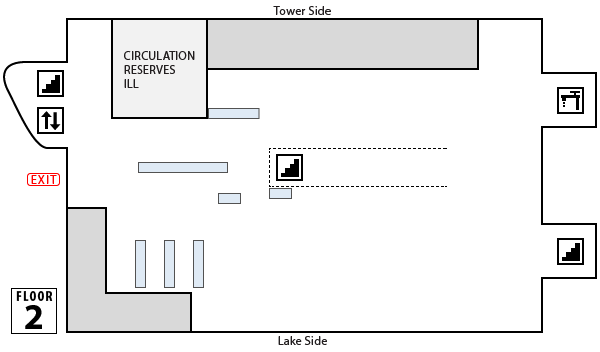
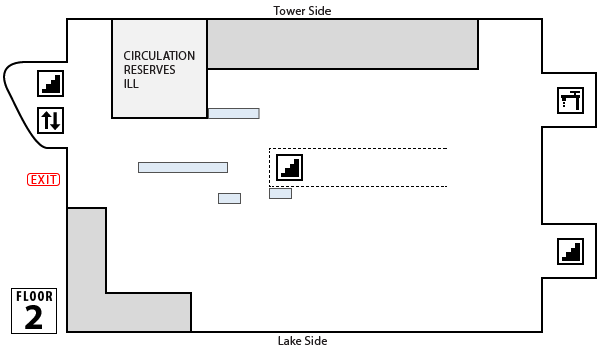
changes to account for moving reference to the fourth floor

Changed region(s): [[0.21, 0.6562, 0.36, 0.8438]]

diff --git a/js/custom.js b/js/custom.js
@@ -12,7 +12,7 @@ var staticLocations = {
   'mm_noILL': { 'floor': '2', 'x': 100, 'y': 91, 'width': 123, 'height': 38, 'message': 'Request this item in the catalog, then pick up at the circulation/reserves desk on the second floor.', 'english': 'Circulation Desk' },
   'archives': { 'floor': '5', 'x': 338, 'y': 139, 'width': 188, 'height': 83, 'message': 'This item is located in the archives on the fifth floor.', 'english': 'Archives' },
   'serling': { 'floor': '5', 'x': 338, 'y': 139, 'width': 188, 'height': 83, 'message': 'This item is located in the archives on the fifth floor.', 'english': 'Archives' },
-  'reference': { 'floor': '2', 'x': 128, 'y': 236, 'width': 110, 'height': 57, 'message': 'This item is located in the stacks on the right as you come in the main entrance.', 'english': 'Reference' },
+  'reference': { 'floor': '4', 'x': 266, 'y': 50, 'height': 80, 'width': 18, 'message': 'This item is located on the towers side of the fourth floor', 'english': 'Reference' },
   'microfilm': { 'floor': '4', 'x': 483, 'y': 59, 'width': 39, 'height': 64, 'message': 'This item is located in the metal cases in the southwest corner of the fourth floor, near the restrooms.', 'english': 'Microfilm' },
   'musper': { 'floor': '3', 'x': 170, 'y': 232, 'width': 20, 'height': 81, 'message': 'This item is located in the northeast corner of the third floor, near the administrative offices.', 'english': 'Music Periodicals' },
   'musicref': { 'floor': '3', 'x': 442, 'y': 233, 'width': 10, 'height': 78, 'message': 'This item is located near the music desk in the NW corner of the third floor.', 'english': 'Music Reference' },
@@ -36,7 +36,7 @@ var staticLocations = {
 
 var stacks = [{ "id": "4.G1.e", "start": "AC1 .E8", "end": "B799 .S37 1998", "x": "85", "y": "222", "height": "80", "width": "9" }, { "id": "4.G1.w", "start": "B801 .C35 1998", "end": "B1647.M74 S35 1968", "x": "95", "y": "222", "height": "80", "width": "9" }, { "id": "4.G2.e", "start": "B1649.O344 B68 2011", "end": "B4351.A34 K5", "x": "103", "y": "222", "height": "80", "width": "9" }, { "id": "4.G2.w", "start": "B4372 .E5 1978", "end": "BF38.5 .S52", "x": "113", "y": "222", "height": "80", "width": "9" }, { "id": "4.G3.e", "start": "BF39 .B73 2016", "end": "BF410.C36 F5 2006", "x": "121", "y": "222", "height": "80", "width": "9" }, { "id": "4.G3.w", "start": "BF411 .B2613 1983", "end": "BF722.3 .R36 2002", "x": "131", "y": "222", "height": "80", "width": "9" }, { "id": "4.G4.e", "start": "BF723.A25 F68 1983", "end": "BJ1279 .S55", "x": "139", "y": "222", "height": "80", "width": "9" }, { "id": "4.G4.w", "start": "BJ1280 .M58 2012", "end": "BL470 .G3", "x": "149", "y": "222", "height": "80", "width": "9" }, { "id": "4.G5.e", "start": "BL473 .A76 2009", "end": "BL2525 .W885 1994", "x": "157", "y": "222", "height": "80", "width": "9" }, { "id": "4.G5.w", "start": "BL2527.M7 G63 2013", "end": "BP75.3 .C36 2010", "x": "167", "y": "222", "height": "80", "width": "9" }, { "id": "4.G6.e", "start": "BP80.A45 K4", "end": "BR148 .M4", "x": "175", "y": "222", "height": "80", "width": "9" }, { "id": "4.G6.w", "start": "BR150 .C59 1962", "end": "BR1233 .A785 2009", "x": "184", "y": "222", "height": "80", "width": "9" }, { "id": "4.G7.e", "start": "BR1235 .G8 1964", "end": "BV2853.E2 G64 1994", "x": "193", "y": "222", "height": "80", "width": "9" }, { "id": "4.G7.w", "start": "BV3200 .T5", "end": "BX4838 .G74 2000", "x": "204", "y": "222", "height": "80", "width": "9" }, { "id": "4.G8.e", "start": "BX4844 .P743 2012", "end": "CB411 .W3", "x": "211", "y": "222", "height": "80", "width": "9" }, { "id": "4.G8.w", "start": "CB415 .F563 2015", "end": "D7 .N4", "x": "220", "y": "222", "height": "80", "width": "9" }, { "id": "4.G9.e", "start": "D9 .D5 1967", "end": "D355 .W6", "x": "229", "y": "222", "height": "80", "width": "9" }, { "id": "4.G9.w", "start": "D358 .H56 1975b", "end": "D753.8 .T45", "x": "239", "y": "222", "height": "80", "width": "9" }, { "id": "4.G10.e", "start": "D754.A34 C6 1942", "end": "D810.Y74 K83 2011", "x": "247", "y": "222", "height": "80", "width": "9" }, { "id": "4.G10.w", "start": "D811.A2 B7458 2001", "end": "DA140 .T48 1986", "x": "257", "y": "222", "height": "80", "width": "9" }, { "id": "4.G11.e", "start": "DA142 .C48 2004", "end": "DA508.A5 M3 1979", "x": "265", "y": "222", "height": "80", "width": "9" }, { "id": "4.G11.w", "start": "DA510 .C43 1965", "end": "DA915 .L41", "x": "276", "y": "222", "height": "80", "width": "9" }, { "id": "4.G12.e", "start": "DA920 .E9 1966A", "end": "DC145 .W53 1968", "x": "320", "y": "222", "height": "80", "width": "9" }, { "id": "4.G12.w", "start": "DC146 .A52 F78", "end": "DD219 .T7 D6", "x": "330", "y": "222", "height": "80", "width": "9" }, { "id": "4.G13.e", "start": "DD220 .C36", "end": "DF287.P3 P37 2005", "x": "338", "y": "222", "height": "80", "width": "9" }, { "id": "4.G13.w", "start": "DF503 .B7", "end": "DJ411.A62 K4", "x": "348", "y": "222", "height": "80", "width": "9" }, { "id": "4.G14.e", "start": "DJK9 .E2 1976", "end": "DK273 .S784", "x": "356", "y": "222", "height": "80", "width": "9" }, { "id": "4.G14.w", "start": "DK274.A2 K4834 1983", "end": "DR381.M38 P3", "x": "366", "y": "222", "height": "80", "width": "9" }, { "id": "4.G15.e", "start": "DR417 .D48", "end": "DS118 .R6 1970", "x": "374", "y": "222", "height": "80", "width": "9" }, { "id": "4.G15.w", "start": "DS119 .G58", "end": "DS369.4 .N44", "x": "384", "y": "222", "height": "80", "width": "9" }, { "id": "4.G16.e", "start": "DS371.2 .A45513 1992", "end": "DS707 .C513 1965", "x": "392", "y": "222", "height": "80", "width": "9" }, { "id": "4.G16.w", "start": "DS708 .M14", "end": "DS935.774 .L36 2013", "x": "402", "y": "222", "height": "80", "width": "9" }, { "id": "4.G17.e", "start": "DT1 .A14 1974", "end": "DT797 .Y44", "x": "411", "y": "222", "height": "80", "width": "9" }, { "id": "4.G17.w", "start": "DT823 .T75", "end": "E98.R53 O9813 1999", "x": "420", "y": "222", "height": "80", "width": "9" }, { "id": "4.G18.e", "start": "E98.S3 V5 1966", "end": "E168 .W69", "x": "430", "y": "222", "height": "80", "width": "9" }, { "id": "4.G18.w", "start": "E169 .A36", "end": "E179.5 .M32 1997", "x": "438", "y": "222", "height": "80", "width": "9" }, { "id": "4.G19.e", "start": "E180 .K28 1995", "end": "E184 .J5 Z826 1982", "x": "482", "y": "222", "height": "80", "width": "9" }, { "id": "4.G19.w", "start": "E184 .K6 E27 1997", "end": "E185.86 .S6974 1996", "x": "492", "y": "222", "height": "80", "width": "9" }, { "id": "4.G20.e", "start": "E185.86 .S698 2005", "end": "E302.5 .W74", "x": "500", "y": "222", "height": "80", "width": "9" }, { "id": "4.G20.w", "start": "E302.6 .A2 B4", "end": "E448 .R3", "x": "511", "y": "222", "height": "80", "width": "9" }, { "id": "4.G21.w", "start": "E449 .A1555 1994", "end": "E660 .R88", "x": "473", "y": "50", "height": "80", "width": "9" }, { "id": "4.G21.e", "start": "E660 .W715", "end": "E746 .W5", "x": "464", "y": "50", "height": "80", "width": "9" }, { "id": "4.G22.w", "start": "E747 .A75", "end": "E842.9 .Z45 1992", "x": "456", "y": "50", "height": "80", "width": "9" }, { "id": "4.G22.e", "start": "E843 .C6", "end": "F127.T7 S4", "x": "446", "y": "50", "height": "80", "width": "9" }, { "id": "4.G23.w", "start": "F128.C3 D47 2010", "end": "F231.2 .G6 1969", "x": "438", "y": "50", "height": "80", "width": "9" }, { "id": "4.G23.e", "start": "F232.C43 M67 1998", "end": "F659.D2 B4 1982", "x": "428", "y": "50", "height": "80", "width": "9" }, { "id": "4.G24.w", "start": "F666.S21 S22 1935", "end": "F1234.237 .H37 2018", "x": "420", "y": "50", "height": "80", "width": "9" }, { "id": "4.G24.e", "start": "F1235 A84 2014", "end": "F2271 .S56 2004", "x": "411", "y": "50", "height": "80", "width": "9" }, { "id": "4.G25.w", "start": "F2272 .I58 2007", "end": "G890.H4 S3", "x": "402", "y": "50", "height": "80", "width": "9" }, { "id": "4.G25.e", "start": "G1021 .S56 2003", "end": "GN23 .P9 1973", "x": "392", "y": "50", "height": "80", "width": "9" }, { "id": "4.G26.w", "start": "GN24 .B43", "end": "GN656 .K86 1982", "x": "383", "y": "50", "height": "80", "width": "9" }, { "id": "4.G26.e", "start": "GN657.B64 M75 1982", "end": "GV182.3 .U55 1993", "x": "374", "y": "50", "height": "80", "width": "9" }, { "id": "4.G27.w", "start": "GV183 .B57 1996", "end": "GV883 .C86 2009", "x": "366", "y": "50", "height": "80", "width": "9" }, { "id": "4.G27.e", "start": "GV884 .A1 A33 2017", "end": "H59 .W6 W63", "x": "356", "y": "50", "height": "80", "width": "9" }, { "id": "4.G28.w", "start": "H61 .A37", "end": "HB501.5 .C37 1983", "x": "348", "y": "50", "height": "80", "width": "9" }, { "id": "4.G28.e", "start": "HB5523 .A27 1999", "end": "HC79.Z6 B38", "x": "338", "y": "50", "height": "80", "width": "9" }, { "id": "4.G29.w", "start": "HC85 .F44 2001", "end": "HC125 .W34", "x": "330", "y": "50", "height": "80", "width": "9" }, { "id": "4.G29.e", "start": "HC130.E5 E58 1991", "end": "HC1060 .H47 1993", "x": "320", "y": "50", "height": "80", "width": "9" }, { "id": "5.G30.w", "start": "HD19 .F46 1976", "end": "HD57.7 .Y85 1989", "x": "69", "y": "21", "height": "49", "width": "15" }, { "id": "5.G31.e", "start": "HD58 .B32", "end": "HD191 .S8 1967", "x": "86", "y": "29", "height": "80", "width": "9" }, { "id": "5.G31.w", "start": "HD194 .A6", "end": "HD4606.N5 B58", "x": "95", "y": "29", "height": "80", "width": "9" }, { "id": "5.G32.e", "start": "HD4802 .R42", "end": "HD6960.5 .U5 D45 1981", "x": "104", "y": "29", "height": "80", "width": "9" }, { "id": "5.G32.w", "start": "HD6961 .B57", "end": "HD9397.U6 B87 2011", "x": "113", "y": "29", "height": "80", "width": "9" }, { "id": "5.G33.e", "start": "HD9415 .C6 1966", "end": "HE2583 .S67", "x": "121", "y": "29", "height": "80", "width": "9" }, { "id": "5.G33.w", "start": "HE2751 .A77", "end": "HF5011 .W26", "x": "130", "y": "29", "height": "80", "width": "9" }, { "id": "5.G34.e", "start": "HF5341 .B4", "end": "HF5679 .M374 2003", "x": "140", "y": "29", "height": "80", "width": "9" }, { "id": "5.G34.w", "start": "HF5681.A8 P385 1997", "end": "HG2229 .H3", "x": "149", "y": "29", "height": "80", "width": "9" }, { "id": "5.G35.e", "start": "HG2406 .A536", "end": "HJ263 .P6", "x": "156", "y": "29", "height": "80", "width": "9" }, { "id": "5.G35.w", "start": "HJ268 .R78 2003", "end": "HM217 .A47 1994", "x": "166", "y": "29", "height": "80", "width": "9" }, { "id": "5.G36.e", "start": "HM221 .C35", "end": "HM1116 .W46 2000", "x": "174", "y": "29", "height": "80", "width": "9" }, { "id": "5.G36.w", "start": "HM1121 .B37 2002", "end": "HN90.P8 Z64 2008", "x": "183", "y": "29", "height": "80", "width": "9" }, { "id": "5.G37.e", "start": "HN90.R3 A3 1984", "end": "HQ56 .W648 1991", "x": "191", "y": "29", "height": "80", "width": "9" }, { "id": "5.G37.w", "start": "HQ57.2 .B87 2011", "end": "HQ755.86 .T366 2006", "x": "201", "y": "29", "height": "80", "width": "9" }, { "id": "5.G38.e", "start": "HQ756 .A23 2018", "end": "HQ1059.5 .U5 W65 1984", "x": "209", "y": "29", "height": "80", "width": "9" }, { "id": "5.G38.w", "start": "HQ1060 .G4", "end": "HQ1240.5 .U6 N36 1998", "x": "218", "y": "29", "height": "80", "width": "9" }, { "id": "5.G39.e", "start": "HQ1381 .A44 2002", "end": "HT166 .W484 2013", "x": "226", "y": "29", "height": "80", "width": "9" }, { "id": "5.G39.w", "start": "HT167 .A834 1994", "end": "HV639 .M47 2000", "x": "235", "y": "29", "height": "80", "width": "9" }, { "id": "5.G40.e", "start": "HV640 .A6", "end": "HV4506.W2 L54 1993", "x": "244", "y": "29", "height": "80", "width": "9" }, { "id": "5.G40.w", "start": "HV4547.A4 F57 2000", "end": "HV6431 .W5655 2013", "x": "253", "y": "29", "height": "80", "width": "9" }, { "id": "5.G41.e", "start": "HV6432 .A45 2004", "end": "HV6795.S5 C45 1978", "x": "261", "y": "29", "height": "80", "width": "9" }, { "id": "5.G41.w", "start": "HV6810.5 .C745 2001", "end": "HV9471 .Z55 1995", "x": "270", "y": "29", "height": "80", "width": "9" }, { "id": "5.G42.e", "start": "HV9474.F66 K47 2013", "end": "J81.4 .M93 2003", "x": "279", "y": "29", "height": "80", "width": "9" }, { "id": "5.G42.w", "start": "J82 .D2", "end": "JC186 .P83 S55", "x": "287", "y": "29", "height": "80", "width": "9" }, { "id": "5.G43.e", "start": "JC211 .B265", "end": "JC628 .G3", "x": "296", "y": "29", "height": "80", "width": "9" }, { "id": "5.G43.w", "start": "JF11 .E47", "end": "JK686 .H7", "x": "305", "y": "29", "height": "80", "width": "9" }, { "id": "5.G44.e", "start": "JK691 .A52 1965", "end": "JL2269 .P7 B84", "x": "313", "y": "29", "height": "80", "width": "9" }, { "id": "5.G44.w", "start": "JL2420 .C58 H86 1997", "end": "JS1230 1981 N48", "x": "321", "y": "29", "height": "80", "width": "9" }, { "id": "5.G45.e", "start": "JS1234 .A1 L6", "end": "JX1977.8 .P85 T6", "x": "330", "y": "29", "height": "80", "width": "9" }, { "id": "5.G45.w", "start": "JX1979 .A36", "end": "KF224 .W33 S57", "x": "339", "y": "29", "height": "80", "width": "9" }, { "id": "5.G46.e", "start": "KF225 .A84 B88 2017", "end": "KF3989 .Z9 F67 1989", "x": "348", "y": "29", "height": "80", "width": "9" }, { "id": "5.G46.w", "start": "KF4118 .K5", "end": "KF8745 .W3 P64", "x": "357", "y": "29", "height": "80", "width": "9" }, { "id": "5.G47.e", "start": "KF8748 .B24", "end": "LA627 .R82 1984", "x": "366", "y": "29", "height": "80", "width": "9" }, { "id": "5.G47.w", "start": "LA631 .A47 1990", "end": "LB1062.6 .W55 1998", "x": "374", "y": "29", "height": "80", "width": "9" }, { "id": "5.G48.e", "start": "LB1063 .E213 1964", "end": "LB2346 .M3", "x": "383", "y": "29", "height": "80", "width": "9" }, { "id": "5.G48.w", "start": "LB2350 .C29 1973", "end": "LC368 .B47 1967", "x": "391", "y": "29", "height": "80", "width": "9" }, { "id": "5.G49.e", "start": "LC383 .G4", "end": "N72.R4 W32", "x": "400", "y": "29", "height": "80", "width": "9" }, { "id": "5.G49.w", "start": "N72.S3 B64 1999", "end": "N6494.V53 S6513 2008", "x": "409", "y": "29", "height": "80", "width": "9" }, { "id": "5.G50.e", "start": "N6496.C52 D383 2005", "end": "N6922 .V35", "x": "417", "y": "29", "height": "80", "width": "9" }, { "id": "5.G50.w", "start": "N6923 .B5 B33", "end": "N9165.F8 S5 1971", "x": "426", "y": "29", "height": "80", "width": "9" }, { "id": "5.G51.e", "start": "NA1 .A536", "end": "NA2530 .O36 1998", "x": "435", "y": "29", "height": "80", "width": "9" }, { "id": "5.G51.w", "start": "NA2540 .A97 2011", "end": "NB619.T9 P4", "x": "443", "y": "29", "height": "80", "width": "9" }, { "id": "5.G52.e", "start": "NB620 .A44 1975", "end": "ND497.P3 L56 1985", "x": "452", "y": "29", "height": "80", "width": "9" }, { "id": "5.G52.w", "start": "ND497.R2 A3", "end": "ND1045 .C63 1987", "x": "461", "y": "29", "height": "80", "width": "9" }, { "id": "5.G53.e", "start": "ND1046.M6 I613", "end": "NK3670 .L79", "x": "470", "y": "29", "height": "80", "width": "9" }, { "id": "5.G53.w", "start": "NK3780 .L5", "end": "P40.8 .L369 2002", "x": "479", "y": "29", "height": "80", "width": "9" }, { "id": "5.G54.e", "start": "P41 .F5", "end": "P117.7 .T35 2010", "x": "487", "y": "29", "height": "80", "width": "9" }, { "id": "5.G54.w", "start": "P118 .A5 1984", "end": "PA4410 .S5 1967", "x": "496", "y": "29", "height": "80", "width": "9" }, { "id": "5.G55.e", "start": "PA4413.A7 A67", "end": "PC4625 .B6", "x": "504", "y": "29", "height": "80", "width": "9" }, { "id": "5.G55.w", "start": "PC4640 .L38 1993", "end": "PG3017 .S8 1976", "x": "513", "y": "29", "height": "80", "width": "9" }, { "id": "5.G56.e", "start": "PG3020.5 .M6 R8", "end": "PG9621.K3 U713 1998", "x": "528", "y": "21", "height": "58", "width": "14" }, { "id": "5.G57.e", "start": "PH301 .A35", "end": "PL3748 .Y6", "x": "487", "y": "248", "height": "58", "width": "14" }, { "id": "5.G58.w", "start": "PL4378.65 .E6 S59 2002", "end": "PN511 .W633 1965", "x": "513", "y": "248", "height": "80", "width": "9" }, { "id": "5.G58.e", "start": "PN513 .S22 1971", "end": "PN1962 .G7", "x": "504", "y": "248", "height": "80", "width": "9" }, { "id": "5.G59.w", "start": "PN1967 .A73 1943", "end": "PN1993.45 .A57 1989", "x": "496", "y": "248", "height": "80", "width": "9" }, { "id": "5.G59.e", "start": "PN1993.5 .A1 A35", "end": "PN1995.9 .H6 W46 1996", "x": "487", "y": "248", "height": "80", "width": "9" }, { "id": "5.G60.w", "start": "PN1995.9 .I43 B45 1985", "end": "PN1998 .P24", "x": "478", "y": "248", "height": "80", "width": "9" }, { "id": "5.G60.e", "start": "PN1998.2 .A24 2011", "end": "PN2266.5 W45 1992", "x": "470", "y": "248", "height": "80", "width": "9" }, { "id": "5.G61.w", "start": "PN2267 .C45 2004", "end": "PN3324 .W6", "x": "461", "y": "248", "height": "80", "width": "9" }, { "id": "5.G61.e", "start": "PN3326 .R63", "end": "PN4826 .W58 1991", "x": "452", "y": "248", "height": "80", "width": "9" }, { "id": "5.G62.w", "start": "PN4832 .I57 1991", "end": "PN6072 .M8", "x": "443", "y": "248", "height": "80", "width": "9" }, { "id": "5.G62.e", "start": "PN6081 .A65", "end": "PN6790.S93 T56 2007", "x": "435", "y": "248", "height": "80", "width": "9" }, { "id": "5.G63.w", "start": "PQ11 .G4", "end": "PQ1489.L53 1968", "x": "426", "y": "248", "height": "80", "width": "9" }, { "id": "5.G63.e", "start": "PQ1494.A3 M3", "end": "PQ2157 .E42A", "x": "417", "y": "248", "height": "80", "width": "9" }, { "id": "5.G64.w", "start": "PQ2158 .A45 1976", "end": "PQ2446 .A29 W2", "x": "409", "y": "248", "height": "80", "width": "9" }, { "id": "5.G64.e", "start": "PQ2450.T6 Z98", "end": "PQ2623.O8 Z5536 1978", "x": "400", "y": "248", "height": "80", "width": "9" }, { "id": "5.G65.w", "start": "PQ2625.A16 Q8", "end": "PQ4117 .L66 1996", "x": "391", "y": "248", "height": "80", "width": "9" }, { "id": "5.G65.e", "start": "PQ4134 .K4", "end": "PQ6182 .H5", "x": "383", "y": "248", "height": "80", "width": "9" }, { "id": "5.G66.w", "start": "PQ6183 .B00 1948", "end": "PQ6558 .V5", "x": "374", "y": "248", "height": "80", "width": "9" }, { "id": "5.G66.e", "start": "PQ6560 1957", "end": "PQ7297.F793 Z933 1998", "x": "365", "y": "248", "height": "80", "width": "9" }, { "id": "5.G67.w", "start": "PQ7297.G23 O8 1994", "end": "PQ8517 .T42 1992", "x": "356", "y": "248", "height": "80", "width": "9" }, { "id": "5.G67.e", "start": "PQ8519.A5 A17 1958", "end": "PR457 .W74 1993", "x": "348", "y": "248", "height": "80", "width": "9" }, { "id": "5.G68.w", "start": "PR461 .A33 2009", "end": "PR858.W6 T6", "x": "339", "y": "248", "height": "80", "width": "9" }, { "id": "5.G68.e", "start": "PR861 .B76 1985", "end": "PR1272 .W4", "x": "331", "y": "248", "height": "80", "width": "9" }, { "id": "5.G69.w", "start": "PR1281 .W8", "end": "PR2539.G6 R3 1974", "x": "322", "y": "248", "height": "80", "width": "9" }, { "id": "5.G69.e", "start": "PR2541 .C6", "end": "PR2949 .T33 1966", "x": "312", "y": "248", "height": "80", "width": "9" }, { "id": "5.G70.w", "start": "PR2952 .A45 1972", "end": "PR3452 .W5", "x": "304", "y": "248", "height": "80", "width": "9" }, { "id": "5.G70.e", "start": "PR3454 .A9 1966", "end": "PR3780 .A2 1854", "x": "296", "y": "248", "height": "80", "width": "9" }, { "id": "5.G71.w", "start": "PR3783 .B5", "end": "PR4537 .B74 2004", "x": "287", "y": "248", "height": "80", "width": "9" }, { "id": "5.G71.e", "start": "PR4550 .E50", "end": "PR4969 .R4", "x": "279", "y": "248", "height": "80", "width": "9" }, { "id": "5.G72.w", "start": "PR4971 .P9 1966", "end": "PR5572.Q7 K5", "x": "271", "y": "248", "height": "80", "width": "9" }, { "id": "5.G72.e", "start": "PR5581 .B8", "end": "PR6003.V36 B7 1966", "x": "262", "y": "248", "height": "80", "width": "9" }, { "id": "5.G73.w", "start": "PR6005.A37 Z6", "end": "PR6023.A94 Z8", "x": "252", "y": "248", "height": "80", "width": "9" }, { "id": "5.G73.e", "start": "PR6023.E15 A8 1914", "end": "PR6051.Z96 H53 2001", "x": "244", "y": "248", "height": "80", "width": "9" }, { "id": "5.G74.w", "start": "PR6052.A3184 Z475 1986", "end": "PR9333.9 .K38 L37 2001", "x": "235", "y": "248", "height": "80", "width": "9" }, { "id": "5.G74.e", "start": "PR9340 .C66", "end": "PS310.W64 S5", "x": "225", "y": "248", "height": "80", "width": "9" }, { "id": "5.G75.w", "start": "PS312 .D3", "end": "PS645 .H3", "x": "217", "y": "248", "height": "80", "width": "9" }, { "id": "5.G75.e", "start": "PS647.A35 B57 1990", "end": "PS1850 .F63", "x": "209", "y": "248", "height": "80", "width": "9" }, { "id": "5.G76.w", "start": "PS1851 .H3", "end": "PS3053 .W5", "x": "200", "y": "248", "height": "80", "width": "9" }, { "id": "5.G76.e", "start": "PS3054 .A44 1908a", "end": "PS3509.V23 A6 1970", "x": "191", "y": "248", "height": "80", "width": "9" }, { "id": "5.G77.w", "start": "PS3511.A33 E5", "end": "PS3523.Y85 E56 1994", "x": "182", "y": "248", "height": "80", "width": "9" }, { "id": "5.G77.e", "start": "PS3525.A1143 Z5 1968", "end": "PS3537.U72 S5", "x": "174", "y": "248", "height": "80", "width": "9" }, { "id": "5.G78.w", "start": "PS3539.A516 L6", "end": "PS3553.U8 V6", "x": "165", "y": "248", "height": "80", "width": "9" }, { "id": "5.G78.e", "start": "PS3554.A243 Z46 2017", "end": "PS3563.A99 C5", "x": "157", "y": "248", "height": "80", "width": "9" }, { "id": "5.G79.w", "start": "PS3563.C334 T5 1990", "end": "PS3580.R3 S5 1973", "x": "148", "y": "248", "height": "80", "width": "9" }, { "id": "5.G79.e", "start": "PS3600.A6 H37 2009", "end": "PT2380 .K7 1970", "x": "139", "y": "248", "height": "80", "width": "9" }, { "id": "5.G80.w", "start": "PT2381 .A1 1954", "end": "PT3710.W65 D84 2004", "x": "131", "y": "248", "height": "80", "width": "9" }, { "id": "5.G80.e", "start": "PT3716 .R3", "end": "PZ3.9 .F85 Co 1976", "x": "122", "y": "248", "height": "80", "width": "9" }, { "id": "5.G81.w", "start": "PZ4.A213 LAS", "end": "Q143.S7 N44 2001", "x": "113", "y": "248", "height": "80", "width": "9" }, { "id": "5.G81.e", "start": "Q147 .H37 2011", "end": "QA37.3 .K73 2002", "x": "104", "y": "248", "height": "80", "width": "9" }, { "id": "5.G82.w", "start": "QA39 .G35", "end": "QA76.95 .W446 2015", "x": "96", "y": "248", "height": "80", "width": "9" }, { "id": "5.G82.e", "start": "QA90 .B47513 2010", "end": "QA297.8 .B43 2000", "x": "87", "y": "248", "height": "80", "width": "9" }, { "id": "5.G83.w", "start": "QA298 .I7 T72 1982", "end": "QA809 .D4 2010", "x": "69", "y": "273", "height": "60", "width": "15" }, { "id": "5.G84.e", "start": "QB9 .R67 1998", "end": "QC996 .K35 2005", "x": "174", "y": "142", "height": "80", "width": "9" }, { "id": "5.G84.w", "start": "QD1 .A355", "end": "QE980 .A54 1996", "x": "182", "y": "142", "height": "80", "width": "9" }, { "id": "5.G85.e", "start": "QH11 .D2 1959", "end": "QH506 .V613", "x": "191", "y": "142", "height": "80", "width": "9" }, { "id": "5.G85.w", "start": "QH507 .H6513 1984", "end": "QL431 .W58", "x": "200", "y": "142", "height": "80", "width": "9" }, { "id": "5.G86.e", "start": "QL434 .C34", "end": "QP186 .U63 1990", "x": "208", "y": "142", "height": "80", "width": "9" }, { "id": "5.G86.w", "start": "QP187 .B46", "end": "QP981.W5 C87", "x": "217", "y": "142", "height": "80", "width": "9" }, { "id": "5.G87.e", "start": "QR1 .K54 1999", "end": "RA418.5 .T73 W5 2003", "x": "226", "y": "142", "height": "80", "width": "9" }, { "id": "5.G87.w", "start": "RA421 .A32 1995a", "end": "RC267 .W45 1996", "x": "235", "y": "142", "height": "80", "width": "9" }, { "id": "5.G88.e", "start": "RC268 .E35 1984", "end": "RC488.6 .T83 1986", "x": "243", "y": "142", "height": "80", "width": "9" }, { "id": "5.G88.w", "start": "RC489.A32 S53 2017", "end": "RD31.5 .K37 1999", "x": "252", "y": "142", "height": "80", "width": "9" }, { "id": "5.G89.e", "start": "RD34 .S85", "end": "RJ496.S8 W36 1998", "x": "261", "y": "142", "height": "80", "width": "9" }, { "id": "5.G89.w", "start": "RJ499.A1 A53", "end": "SK199 .A73 2001", "x": "269", "y": "142", "height": "80", "width": "9" }, { "id": "5.G90.e", "start": "SK203 .B37 2001", "end": "TN870.5 .G66 1999", "x": "279", "y": "142", "height": "80", "width": "9" }, { "id": "5.G90.w", "start": "TN871 .A718", "end": "TX360.U63 N49 2012", "x": "287", "y": "142", "height": "80", "width": "9" }, { "id": "5.G91.e", "start": "TX361.A8 A28 2012", "end": "Z1019 .H15 1978", "x": "296", "y": "142", "height": "80", "width": "9" }, { "id": "5.G91.w", "start": "Z1023 .R66 2000", "end": "ZA4575 .T85 2012", "x": "305", "y": "142", "height": "80", "width": "9" }];
 
-var perStacks = [{ "id": "4.P1.e", "start": "AG305 .N7", "end": "AP2 .N6763", "x": "86", "y": "50", "height": "80", "width": "9" }, { "id": "4.P1.w", "start": "AP2 .P46", "end": "AP60 .R43", "x": "95", "y": "50", "height": "80", "width": "9" }, { "id": "4.P2.e", "start": "AP92 .T5", "end": "BF789 .D4 A53", "x": "104", "y": "50", "height": "80", "width": "9" }, { "id": "4.P2.w", "start": "BF789 .D4 O4", "end": "E151 .J8", "x": "114", "y": "50", "height": "80", "width": "9" }, { "id": "4.P3.e", "start": "E169.1 .J66", "end": "GN700 .J68", "x": "122", "y": "50", "height": "80", "width": "9" }, { "id": "4.P3.w", "start": "GR1 .I39", "end": "HM251 .J53", "x": "130", "y": "50", "height": "80", "width": "9" }, { "id": "4.P4.e", "start": "HM258 .J67", "end": "JN101 .P3", "x": "140", "y": "50", "height": "80", "width": "9" }, { "id": "4.P4.w", "start": "JN6501 .D45", "end": "LB3062 .I48", "x": "149", "y": "50", "height": "80", "width": "9" }, { "id": "4.P5.e", "start": "LB3454 .L3", "end": "N1 .I6", "x": "158", "y": "50", "height": "80", "width": "9" }, { "id": "4.P5.w", "start": "N1 .J6", "end": "P1 .E58", "x": "168", "y": "50", "height": "80", "width": "9" }, { "id": "4.P6.e", "start": "P1 .F72", "end": "PJ5120 .A2254", "x": "176", "y": "50", "height": "80", "width": "9" }, { "id": "4.P6.w", "start": "PN2 .C4", "end": "PN1993 .A1 F4", "x": "186", "y": "50", "height": "80", "width": "9" }, { "id": "4.P7.e", "start": "PN1993 .A617", "end": "PQ7081 .A1 H57", "x": "195", "y": "50", "height": "80", "width": "9" }, { "id": "4.P7.w", "start": "PQ7081 .A1 R4", "end": "QA1 .A876", "x": "204", "y": "50", "height": "80", "width": "9" }, { "id": "4.P8.e", "start": "QA1 .F5", "end": "QD1 .A67", "x": "212", "y": "50", "height": "80", "width": "9" }, { "id": "4.P8.w", "start": "QD1 .B55", "end": "QH301 .J677", "x": "221", "y": "50", "height": "80", "width": "9" }, { "id": "4.P9.e", "start": "QH301 .J68", "end": "QL750 .B7", "x": "230", "y": "50", "height": "80", "width": "9" }, { "id": "4.P9.w", "start": "QL757 .J68", "end": "QP1 .H84", "x": "239", "y": "50", "height": "80", "width": "9" }, { "id": "4.P10.e", "start": "QP1 .J72", "end": "R15 .A48", "x": "249", "y": "50", "height": "80", "width": "9" }, { "id": "4.P10.w", "start": "R15 .N6", "end": "RC321 .A47", "x": "257", "y": "50", "height": "80", "width": "9" }, { "id": "4.P11.e", "start": "RC321 .J832", "end": "RF297 .A25", "x": "266", "y": "50", "height": "80", "width": "9" }, { "id": "4.P11.w", "start": "RJ53 .P5 P432", "end": "Z119 .G87", "x": "276", "y": "50", "height": "80", "width": "9" }];
+var perStacks = [{ "id": "4.P1.e", "start": "AG305 .N7", "end": "AP2 .N67", "x": "86", "y": "50", "height": "80", "width": "9" }, { "id": "4.P1.w", "start": "AP2 .P46", "end": "AP60 .R43", "x": "95", "y": "50", "height": "80", "width": "9" }, { "id": "4.P2.e", "start": "AP92 .T5", "end": "BF789 .D4 A53", "x": "104", "y": "50", "height": "80", "width": "9" }, { "id": "4.P2.w", "start": "BF789 .D4 O4", "end": "E151 .J8", "x": "114", "y": "50", "height": "80", "width": "9" }, { "id": "4.P3.e", "start": "E169.1 .J66", "end": "GN700 .J68", "x": "122", "y": "50", "height": "80", "width": "9" }, { "id": "4.P3.w", "start": "GR1 .I39", "end": "HM251 .J53", "x": "130", "y": "50", "height": "80", "width": "9" }, { "id": "4.P4.e", "start": "HM263 .P767", "end": "JN101 .P3", "x": "140", "y": "50", "height": "80", "width": "9" }, { "id": "4.P4.w", "start": "JN6501 .D45", "end": "LB2342.8 .J68", "x": "149", "y": "50", "height": "80", "width": "9" }, { "id": "4.P5.e", "start": "LB3062 .I48", "end": "N1 .I6", "x": "158", "y": "50", "height": "80", "width": "9" }, { "id": "4.P5.w", "start": "N1 .S9", "end": "P1 .A1", "x": "168", "y": "50", "height": "80", "width": "9" }, { "id": "4.P6.e", "start": "P1 .F72", "end": "PJ5120 .A2254", "x": "176", "y": "50", "height": "80", "width": "9" }, { "id": "4.P6.w", "start": "PN2 .C5", "end": "PN1993 .A1 F4", "x": "186", "y": "50", "height": "80", "width": "9" }, { "id": "4.P7.e", "start": "PN1993 .A617", "end": "PQ7081 .A1 H57", "x": "195", "y": "50", "height": "80", "width": "9" }, { "id": "4.P7.w", "start": "PQ7081 .A1 R4", "end": "QA1 .A876", "x": "204", "y": "50", "height": "80", "width": "9" }, { "id": "4.P8.e", "start": "QA1 .N28", "end": "QD1 .A67", "x": "212", "y": "50", "height": "80", "width": "9" }, { "id": "4.P8.w", "start": "QD1 .B55", "end": "QH75 .A1 C66515", "x": "221", "y": "50", "height": "80", "width": "9" }, { "id": "4.P9.e", "start": "QP1 .A5", "end": "QL671 .A82", "x": "230", "y": "50", "height": "80", "width": "9" }, { "id": "4.P9.w", "start": "QL757 .J68", "end": "QP1 .A5", "x": "239", "y": "50", "height": "80", "width": "9" }, { "id": "4.P10.e", "start": "RC321 .A47", "end": "Z119 .G87", "x": "249", "y": "50", "height": "80", "width": "9" }];
 
 var musicStacks = [{ "id": "3.M3.w", "start": "M1 .A13 A4", "end": "M2 .R2384", "x": "403", "y": "231", "height": "84", "width": "10" }, { "id": "3.M3.e", "start": "M2 .R2386", "end": "M3 .G66", "x": "394", "y": "230", "height": "84", "width": "10" }, { "id": "3.M4.w", "start": "M3 .G68", "end": "M3 .S36", "x": "384", "y": "230", "height": "84", "width": "10" }, { "id": "3.M4.e", "start": "M3 .S38242", "end": "M8 .V66 S8", "x": "375", "y": "230", "height": "84", "width": "10" }, { "id": "3.M5.w", "start": "M9 .A28 P5", "end": "M228 .Z8 S4", "x": "365", "y": "230", "height": "84", "width": "10" }, { "id": "3.M5.e", "start": "M229 .B66 C4 2009", "end": "M1001 .E72 O9", "x": "356", "y": "230", "height": "84", "width": "10" }, { "id": "3.M6.w", "start": "M1001 .F527", "end": "M1375 .B631 S58", "x": "346", "y": "230", "height": "84", "width": "10" }, { "id": "3.M6.e", "start": "M1378 .A184 S4 1983", "end": "M1503 .S3635", "x": "337", "y": "230", "height": "84", "width": "10" }, { "id": "3.M7.w", "start": "M1503 .S38 A4", "end": "M1518 .S56", "x": "326", "y": "230", "height": "84", "width": "10" }, { "id": "3.M7.e", "start": "M1520 .B5 F36", "end": "M1622 .S66", "x": "317", "y": "230", "height": "84", "width": "10" }, { "id": "3.M8.w", "start": "M1623 .S38 S5", "end": "ML60 .T67 M8", "x": "306", "y": "230", "height": "84", "width": "10" }, { "id": "3.M8.e", "start": "ML60 .V18", "end": "ML285.5 .R7", "x": "298", "y": "230", "height": "84", "width": "10" }, { "id": "3.M9.w", "start": "ML286 .C28 1991", "end": "ML410 .G46 O813 1988", "x": "254", "y": "230", "height": "84", "width": "10" }, { "id": "3.M9.e", "start": "ML410 .G5 A413 1962", "end": "ML410 .S932 V38 2012", "x": "245", "y": "230", "height": "84", "width": "10" }, { "id": "3.M10.w", "start": "ML410 .S932 V52 1967", "end": "ML420 .M62 H7 1981", "x": "235", "y": "230", "height": "84", "width": "10" }, { "id": "3.M10.e", "start": "ML420 .N37 B6 2010", "end": "ML756 .H64 1993", "x": "226", "y": "230", "height": "84", "width": "10" }, { "id": "3.M11.w", "start": "ML760 .A35 1991", "end": "ML3475 .R66 B6 2008", "x": "217", "y": "230", "height": "84", "width": "10" }, { "id": "3.M11.e", "start": "ML3477 .A48 1992", "end": "ML3918 .U53 S9 2005", "x": "208", "y": "230", "height": "84", "width": "10" }, { "id": "3.M12.w", "start": "ML3920 .A33 1996", "end": "MT130 .Z34 G37 1999", "x": "198", "y": "230", "height": "84", "width": "10" }, { "id": "3.M12.e", "start": "MT135 .C66 2003", "end": "MT956 .S36 R6 2011", "x": "189", "y": "230", "height": "84", "width": "10" }];
 (function (window) {

diff --git a/js/1-map-data.js b/js/1-map-data.js
@@ -8,7 +8,7 @@ var staticLocations = {
 	'mm_noILL' : { 'floor':'2','x':100,'y':91,'width':123,'height':38, 'message':'Request this item in the catalog, then pick up at the circulation/reserves desk on the second floor.', 'english':'Circulation Desk' },
 	'archives': { 'floor':'5','x':338,'y':139,'width':188,'height':83, 'message':'This item is located in the archives on the fifth floor.', 'english':'Archives' },
 	'serling': { 'floor':'5','x':338,'y':139,'width':188,'height':83, 'message':'This item is located in the archives on the fifth floor.', 'english':'Archives' },
-	'reference': { 'floor':'2','x':128,'y':236,'width':110,'height':57, 'message':'This item is located in the stacks on the right as you come in the main entrance.', 'english':'Reference' },
+	'reference': { 'floor':'4', 'x':266, 'y':50, 'height':80, 'width':18, 'message':'This item is located on the towers side of the fourth floor', 'english':'Reference' },
 	'microfilm': { 'floor':'4','x':483,'y':59,'width':39,'height':64, 'message':'This item is located in the metal cases in the southwest corner of the fourth floor, near the restrooms.', 'english':'Microfilm' },
 	'musper': { 'floor':'3','x':170,'y':232,'width':20,'height':81, 'message':'This item is located in the northeast corner of the third floor, near the administrative offices.', 'english':'Music Periodicals' },
 	'musicref': { 'floor':'3','x':442,'y':233,'width':10,'height':78, 'message':'This item is located near the music desk in the NW corner of the third floor.', 'english':'Music Reference'},
@@ -212,28 +212,25 @@ var stacks = [
 ];
 
 var perStacks = [
-	{"id":"4.P1.e", "start":"AG305 .N7", "end":"AP2 .N6763", "x":"86", "y":"50", "height":"80", "width":"9"},
+	{"id":"4.P1.e", "start":"AG305 .N7", "end":"AP2 .N67", "x":"86", "y":"50", "height":"80", "width":"9"},
 	{"id":"4.P1.w", "start":"AP2 .P46", "end":"AP60 .R43", "x":"95", "y":"50", "height":"80", "width":"9"},
 	{"id":"4.P2.e", "start":"AP92 .T5", "end":"BF789 .D4 A53", "x":"104", "y":"50", "height":"80", "width":"9"},
 	{"id":"4.P2.w", "start":"BF789 .D4 O4", "end":"E151 .J8", "x":"114", "y":"50", "height":"80", "width":"9"},
 	{"id":"4.P3.e", "start":"E169.1 .J66", "end":"GN700 .J68", "x":"122", "y":"50", "height":"80", "width":"9"},
 	{"id":"4.P3.w", "start":"GR1 .I39", "end":"HM251 .J53", "x":"130", "y":"50", "height":"80", "width":"9"},
-	{"id":"4.P4.e", "start":"HM258 .J67", "end":"JN101 .P3", "x":"140", "y":"50", "height":"80", "width":"9"},
-	{"id":"4.P4.w", "start":"JN6501 .D45", "end":"LB3062 .I48", "x":"149", "y":"50", "height":"80", "width":"9"},
-	{"id":"4.P5.e", "start":"LB3454 .L3", "end":"N1 .I6", "x":"158", "y":"50", "height":"80", "width":"9"},
-	{"id":"4.P5.w", "start":"N1 .J6", "end":"P1 .E58", "x":"168", "y":"50", "height":"80", "width":"9"},
+	{"id":"4.P4.e", "start":"HM263 .P767", "end":"JN101 .P3", "x":"140", "y":"50", "height":"80", "width":"9"},
+	{"id":"4.P4.w", "start":"JN6501 .D45", "end":"LB2342.8 .J68", "x":"149", "y":"50", "height":"80", "width":"9"},
+	{"id":"4.P5.e", "start":"LB3062 .I48", "end":"N1 .I6", "x":"158", "y":"50", "height":"80", "width":"9"},
+	{"id":"4.P5.w", "start":"N1 .S9", "end":"P1 .A1", "x":"168", "y":"50", "height":"80", "width":"9"},
 	{"id":"4.P6.e", "start":"P1 .F72", "end":"PJ5120 .A2254", "x":"176", "y":"50", "height":"80", "width":"9"},
-	{"id":"4.P6.w", "start":"PN2 .C4", "end":"PN1993 .A1 F4", "x":"186", "y":"50", "height":"80", "width":"9"},
+	{"id":"4.P6.w", "start":"PN2 .C5", "end":"PN1993 .A1 F4", "x":"186", "y":"50", "height":"80", "width":"9"},
 	{"id":"4.P7.e", "start":"PN1993 .A617", "end":"PQ7081 .A1 H57", "x":"195", "y":"50", "height":"80", "width":"9"},
 	{"id":"4.P7.w", "start":"PQ7081 .A1 R4", "end":"QA1 .A876", "x":"204", "y":"50", "height":"80", "width":"9"},
-	{"id":"4.P8.e", "start":"QA1 .F5", "end":"QD1 .A67", "x":"212", "y":"50", "height":"80", "width":"9"},
-	{"id":"4.P8.w", "start":"QD1 .B55", "end":"QH301 .J677", "x":"221", "y":"50", "height":"80", "width":"9"},
-	{"id":"4.P9.e", "start":"QH301 .J68", "end":"QL750 .B7", "x":"230", "y":"50", "height":"80", "width":"9"},
-	{"id":"4.P9.w", "start":"QL757 .J68", "end":"QP1 .H84", "x":"239", "y":"50", "height":"80", "width":"9"},
-	{"id":"4.P10.e", "start":"QP1 .J72", "end":"R15 .A48", "x":"249", "y":"50", "height":"80", "width":"9"},
-	{"id":"4.P10.w", "start":"R15 .N6", "end":"RC321 .A47", "x":"257", "y":"50", "height":"80", "width":"9"},
-	{"id":"4.P11.e", "start":"RC321 .J832", "end":"RF297 .A25", "x":"266", "y":"50", "height":"80", "width":"9"},
-	{"id":"4.P11.w", "start":"RJ53 .P5 P432", "end":"Z119 .G87", "x":"276", "y":"50", "height":"80", "width":"9"}
+	{"id":"4.P8.e", "start":"QA1 .N28", "end":"QD1 .A67", "x":"212", "y":"50", "height":"80", "width":"9"},
+	{"id":"4.P8.w", "start":"QD1 .B55", "end":"QH75 .A1 C66515", "x":"221", "y":"50", "height":"80", "width":"9"},
+	{"id":"4.P9.e", "start":"QP1 .A5", "end":"QL671 .A82", "x":"230", "y":"50", "height":"80", "width":"9"},
+	{"id":"4.P9.w", "start":"QL757 .J68", "end":"QP1 .A5", "x":"239", "y":"50", "height":"80", "width":"9"},
+	{"id":"4.P10.e", "start":"RC321 .A47", "end":"Z119 .G87", "x":"249", "y":"50", "height":"80", "width":"9"}
 ];
 
 var musicStacks = [
